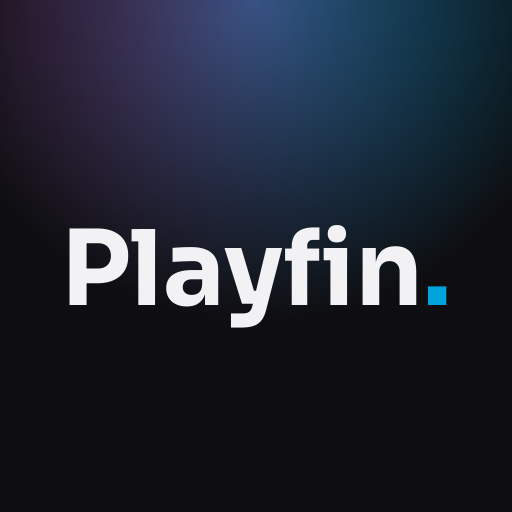
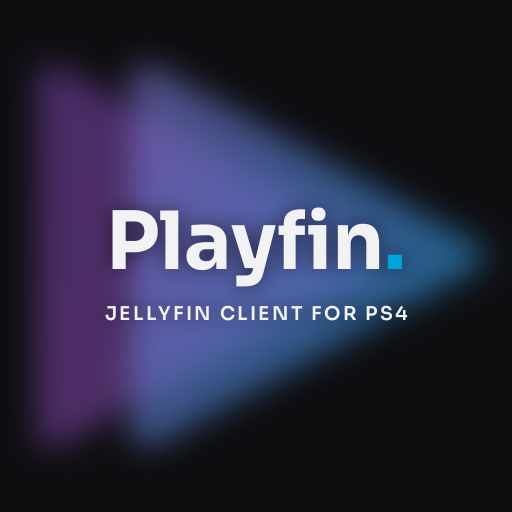
build: Playfin 2.0.1
- PS4 home screen art: two play triangles with soft edges in Jellyfin's purple-to-blue gradient, purple behind
  and blue in front, with "Playfin." and "JELLYFIN CLIENT FOR PS4" over them (scripts/make-ps4-art.py).
- CHANGELOG: the 2.0.0 "known limit" about https channels is removed; it came from a console without Internet
  access, not from Playfin.

diff --git a/scripts/make-ps4-art.py b/scripts/make-ps4-art.py
@@ -3,16 +3,16 @@
 
     python3 scripts/make-ps4-art.py
 
-icon0.png (512x512): "Playfin." under a halo in Jellyfin's purple-to-blue gradient. pic1.png (1920x1080): the same
-halo and logo, shown by the PS4 behind the selected app. Jellyfin's branding guide forbids its logo inside another
-logo without permission and allows its gradient on a shape of our own: only the gradient is used. docs/images/logo-on-dark.png and logo-on-light.png: the "Playfin."
-wordmark on a transparent background for the README (GitHub's dark and light themes). docs/images/download.png: the
-README's download button. Colours from the theme (src/ui/theme.cpp).
+icon0.png (512x512) and pic1.png (1920x1080, shown by the PS4 behind the selected app): two play triangles with
+soft edges, purple behind and blue in front (fast forward), in Jellyfin's purple-to-blue gradient, with "Playfin." and
+"JELLYFIN CLIENT FOR PS4" over them. Jellyfin's branding guide forbids its logo inside another logo without
+permission, allows its gradient on a shape of our own and its name to say what the app works with: only the
+gradient and the name are used. docs/images/logo-on-dark.png and logo-on-light.png: the "Playfin." wordmark on a
+transparent background for the README (GitHub's dark and light themes). docs/images/download.png: the README's download button. Colours from the theme (src/ui/theme.cpp).
 """
-import math
 import os
 
-from PIL import Image, ImageDraw, ImageFont
+from PIL import Image, ImageChops, ImageDraw, ImageFilter, ImageFont
 
 ROOT = os.path.join(os.path.dirname(os.path.abspath(__file__)), "..")
 BACKGROUND = (0x0E, 0x0E, 0x11)
@@ -21,34 +21,69 @@ TEXT = (0xF2, 0xF2, 0xF5)
 DOT = (0x2F, 0x8C, 0xFF)  # lighter than the accent: legible at icon size
 GRADIENT = ((0xAA, 0x5C, 0xC3), (0x00, 0xA4, 0xDC))  # Jellyfin's, left to right, for the home screen art
 FONT = os.path.join(ROOT, "resources", "fonts", "Sora-Bold.ttf")
+SUBTITLE_FONT = os.path.join(ROOT, "resources", "fonts", "Sora-SemiBold.ttf")
+SUBTITLE = "JELLYFIN CLIENT FOR PS4"
+PURPLE_DEEP = (0x7A, 0x44, 0xB8)
 
 
-def halo(width, height, centre_y, radius_x, radius_y, strength, colours=(ACCENT, ACCENT)):
-    """Background with an elliptical light (strength at the centre, gone at 70 % of the radii) whose colour goes from
-    colours[0] on the left edge to colours[1] on the right."""
-    image = Image.new("RGB", (width, height))
-    pixels = image.load()
-    cx, cy = width / 2, centre_y * height
-    for y in range(height):
-        for x in range(width):
-            dx = (x + 0.5 - cx) / (radius_x * width)
-            dy = (y + 0.5 - cy) / (radius_y * height)
-            d = math.sqrt(dx * dx + dy * dy)
-            light = 0.0 if d >= 0.7 else strength * (1 - d / 0.7)
-            t = (x + 0.5) / width
-            colour = tuple(l + (r - l) * t for l, r in zip(*colours))
-            pixels[x, y] = tuple(round(b + (a - b) * light) for a, b in zip(colour, BACKGROUND))
-    return image
+def solid(width, height, colour):
+    return Image.new("RGB", (width, height), colour)
 
 
-def logo(image, size, centre_y, dot=DOT):
-    draw = ImageDraw.Draw(image)
+def gradient(width, height, left, right, angle=-25):
+    """left to right, turned by `angle` degrees"""
+    mask = Image.linear_gradient("L").resize((512, 512)).rotate(90 + angle, resample=Image.BICUBIC)
+    mask = ImageChops.invert(mask.crop((106, 106, 406, 406)).resize((width, height)))
+    return Image.composite(solid(width, height, right), solid(width, height, left), mask)
+
+
+def triangle(width, height, left, centre_y, size_y, size_x, feather):
+    """A play triangle (its upright side at x = left, its point at left + size_x), corners slightly rounded and
+    edges blurred by `feather`."""
+    mask = Image.new("L", (width * 2, height * 2), 0)
+    ImageDraw.Draw(mask).polygon([(left * 2, (centre_y - size_y / 2) * 2), ((left + size_x) * 2, centre_y * 2),
+                                  (left * 2, (centre_y + size_y / 2) * 2)], fill=255)
+    mask = mask.filter(ImageFilter.GaussianBlur(size_x * 0.06)).point(lambda v: 255 if v > 127 else 0)
+    return mask.resize((width, height), Image.LANCZOS).filter(ImageFilter.GaussianBlur(feather))
+
+
+def title(width, height, centre_y, size):
+    """"Playfin." and the subtitle in spaced capitals, centred, on a transparent layer with a soft shadow"""
+    layer = Image.new("RGBA", (width, height), (0, 0, 0, 0))
+    draw = ImageDraw.Draw(layer)
     font = ImageFont.truetype(FONT, size)
+    small = ImageFont.truetype(SUBTITLE_FONT, round(size * 0.24))
+    spacing = small.size * 0.12
     name_width = draw.textlength("Playfin", font=font)
     dot_width = draw.textlength(".", font=font)
-    x = (image.width - name_width - dot_width) / 2
-    draw.text((x, centre_y), "Playfin", font=font, fill=TEXT, anchor="lm")
-    draw.text((x + name_width, centre_y), ".", font=font, fill=dot, anchor="lm")
+    sub_width = sum(draw.textlength(ch, font=small) for ch in SUBTITLE) + spacing * (len(SUBTITLE) - 1)
+    ascent, descent = font.getmetrics()
+    block = size * 1.1 + size * 0.14 + small.size * 1.1
+    baseline = centre_y - block / 2 - size * 0.06 + ascent
+    x = (width - name_width - dot_width) / 2
+    draw.text((x, baseline), "Playfin", font=font, fill=TEXT, anchor="ls")
+    draw.text((x + name_width, baseline), ".", font=font, fill=GRADIENT[1], anchor="ls")
+    sub_baseline = baseline + descent + size * 0.14 + small.getmetrics()[0] * 0.8
+    sx = (width - sub_width) / 2
+    for ch in SUBTITLE:
+        draw.text((sx, sub_baseline), ch, font=small, fill=TEXT, anchor="ls")
+        sx += draw.textlength(ch, font=small) + spacing
+    shadow = layer.split()[3].filter(ImageFilter.GaussianBlur(size * 0.12)).point(lambda v: v * 60 // 100)
+    return layer, shadow
+
+
+def home_art(width, height, left, centre_y, size_y, size_x, name_size):
+    """The two triangles, purple behind and blue in front, and the title over them"""
+    image = solid(width, height, BACKGROUND)
+    feather = size_x * 0.035
+    back = triangle(width, height, left, centre_y, size_y * 0.86, size_x * 0.86, feather)
+    image.paste(gradient(width, height, GRADIENT[0], PURPLE_DEEP), (0, 0), back.point(lambda v: v * 50 // 100))
+    front = triangle(width, height, left + size_x * 0.22, centre_y, size_y * 0.86, size_x * 0.86, feather)
+    image.paste(gradient(width, height, GRADIENT[1], GRADIENT[0]), (0, 0), front.point(lambda v: v * 62 // 100))
+    layer, shadow = title(width, height, centre_y, name_size)
+    image.paste(solid(width, height, (0, 0, 0)), (0, 0), shadow)
+    image.paste(layer, (0, 0), layer)
+    return image
 
 
 def wordmark(text_colour, dot_colour, size=160, margin=16):
@@ -90,12 +125,8 @@ def download_button(scale=2):
 
 def main():
     out = os.path.join(ROOT, "resources", "ps4", "sce_sys")
-    icon = halo(512, 512, 0.0, 0.9, 0.9, 0.6, GRADIENT)
-    logo(icon, 104, 270, GRADIENT[1])
-    icon.save(os.path.join(out, "icon0.png"))
-    picture = halo(1920, 1080, -0.1, 0.7, 0.55, 0.3, GRADIENT)
-    logo(picture, 160, 330, GRADIENT[1])
-    picture.save(os.path.join(out, "pic1.png"))
+    home_art(512, 512, 36, 256, 470, 430, 80).save(os.path.join(out, "icon0.png"))
+    home_art(1920, 1080, 560, 540, 940, 840, 160).save(os.path.join(out, "pic1.png"))
     images = os.path.join(ROOT, "docs", "images")
     os.makedirs(images, exist_ok=True)
     wordmark(TEXT, DOT).save(os.path.join(images, "logo-on-dark.png"))

diff --git a/CHANGELOG.md b/CHANGELOG.md
@@ -1,5 +1,10 @@
 # Changelog
 
+## 2.0.1 (2026-11-09)
+
+- A new look on the PS4 home screen: two play triangles in Jellyfin's purple-to-blue gradient, with "Playfin."
+  and "Jellyfin client for PS4".
+
 ## 2.0.0 (2026-11-09)
 
 Playfin 2.0 brings Playfin close to the Jellyfin experience on a PS4: a home laid out as in Jellyfin, a
@@ -47,10 +52,6 @@ smoother interface, downloads, a much richer player, and Live TV that works with
 - Live TV channels and transcoded videos did not play since 1.0.0 ("This video cannot be played").
 - Host names are resolved at once on the console (they took 5 s behind some routers).
 - A long title no longer pushes a duration out of its row.
-
-#### Known limit
-- On the console, a channel whose own stream is https plays through the server (Playfin cannot open https
-  streams itself yet).
 
 ## 1.0.1 (2026-10-17)
 
